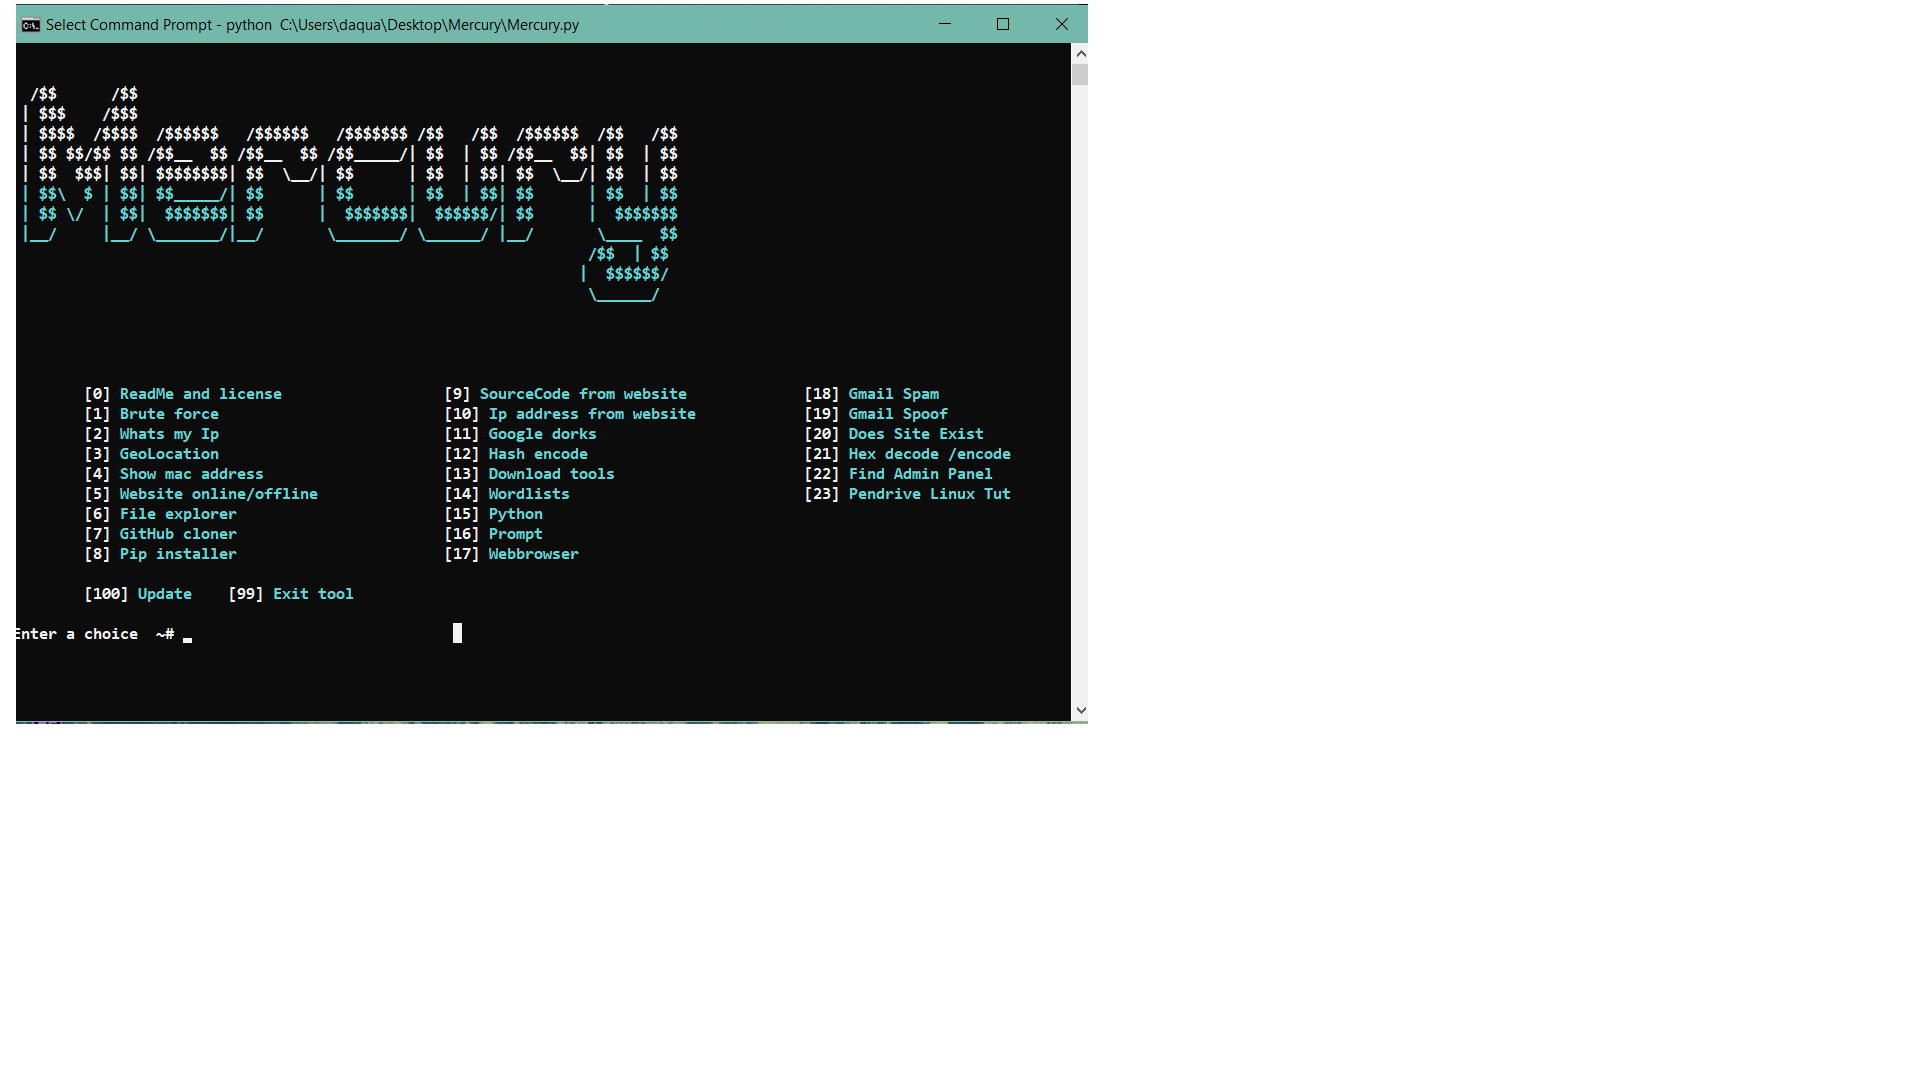
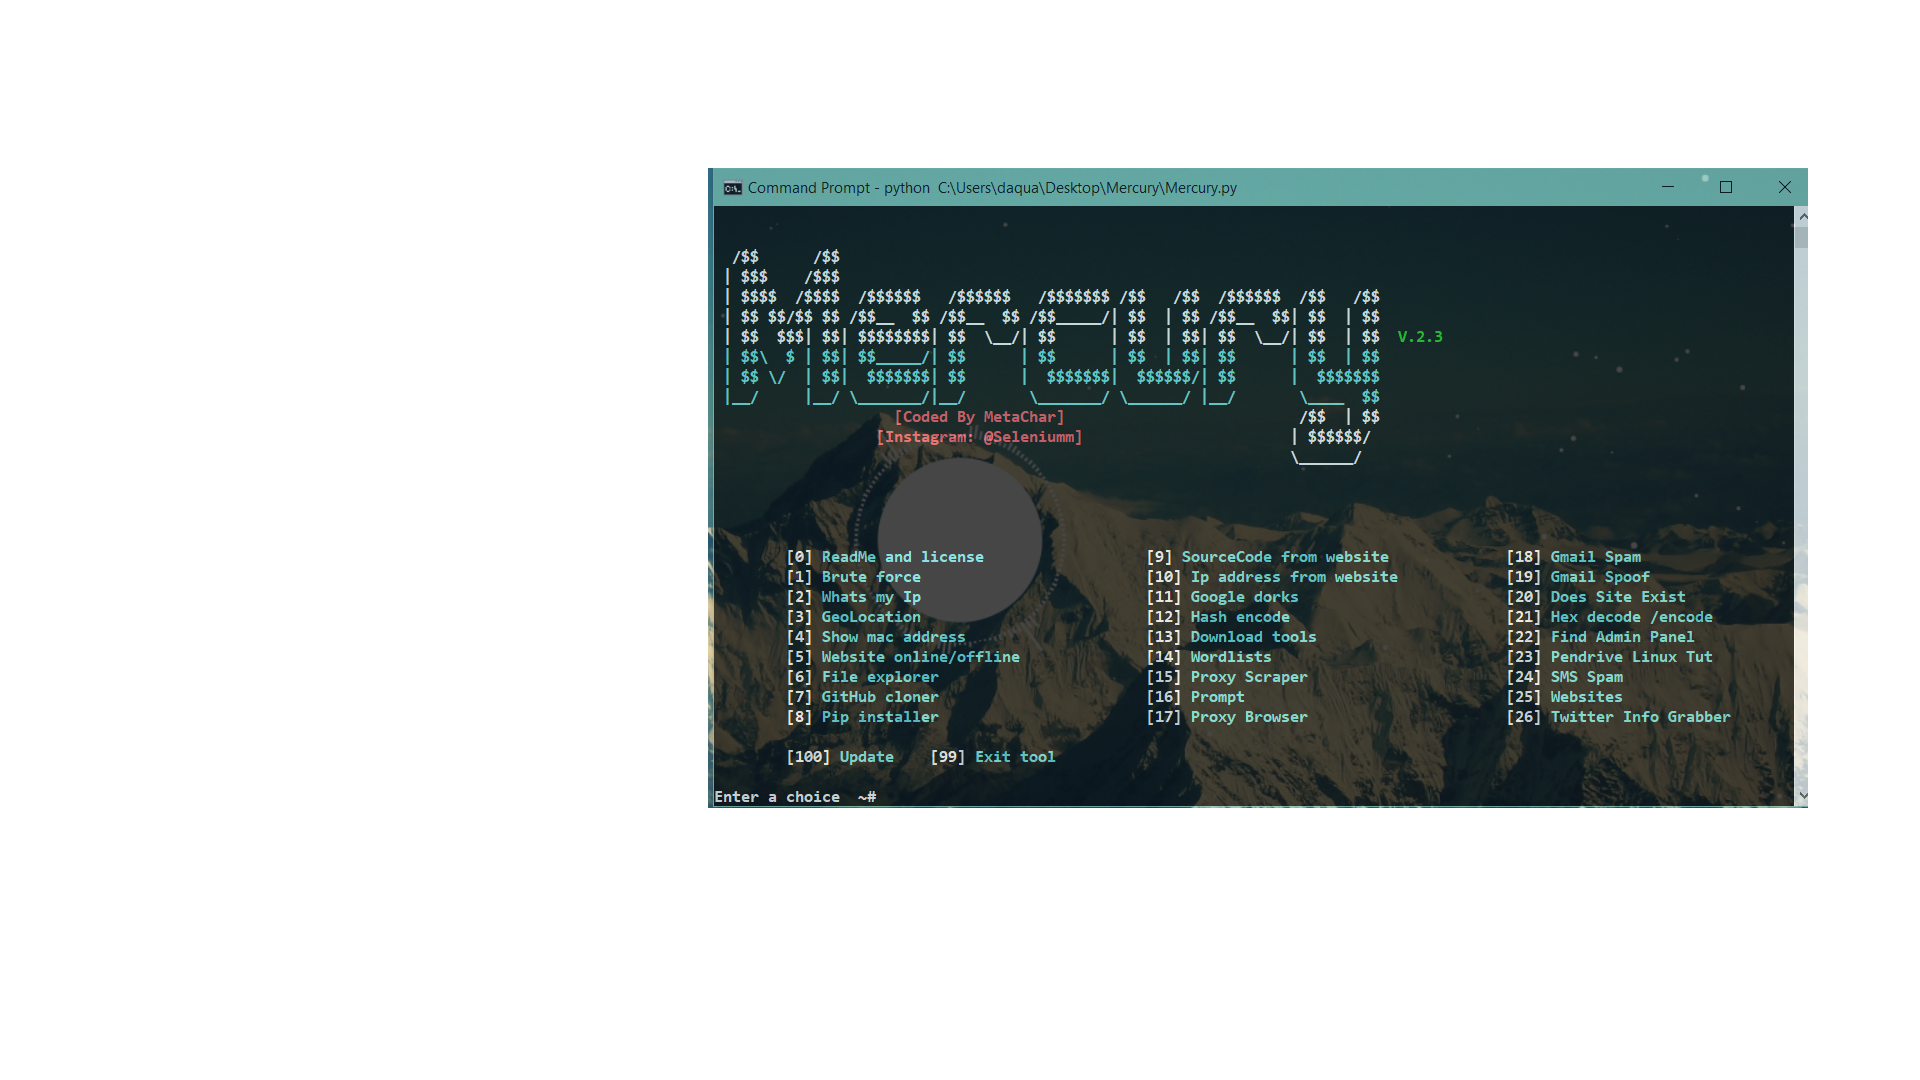
Add files via upload

diff --git a/Mercury.py b/Mercury.py
@@ -308,8 +308,8 @@ def websitess():
 	[3]\033[96m Dark More Ops \033[1;37;40m	[12]\033[96m Stack Overflow \033[1;37;40m
 	[4]\033[96m Kali Linux \033[1;37;40m         [13]\033[96m Arduino\033[1;37;40m
 	[5]\033[96m Defcon \033[1;37;40m		[14]\033[96m RaspberryPie\033[1;37;40m
-	[6]\033[96m Pycon \033[1;37;40m
-	[7]\033[96m Python.org \033[1;37;40m
+	[6]\033[96m Pycon \033[1;37;40m              [15]\033[96m Kitploit\033[1;37;40m
+	[7]\033[96m Python.org \033[1;37;40m          [16]\033[96m Hack A Day\033[1;37;40m
 	[8]\033[96m HackThis! \033[1;37;40m
 
 
@@ -362,9 +362,17 @@ def websitess():
 	if ans_5 == '14':
 		browser.get('https://www.raspberrypi.org/')
 		websitess()
+	if ans_5 == '15':
+		browser.get('https://www.kitploit.com/')
+		websitess()
+	if ans_5 == '16':
+		browser.get('https://hackaday.com/')
+		websitess()
 	if ans_5 == '99':
 		attempt = 0 
 		mainmenu()
+	else:
+		websitess()
 
 
 
@@ -541,7 +549,6 @@ def toolss():
 		mainmenu()
 	else:
 		toolss()
-proxys_num2 = 2
 def proxys():
 	options = webdriver.ChromeOptions()
 	options.add_argument("--disable-popup-blocking")
@@ -1126,7 +1133,7 @@ def wordlist():
 			wordlist()
 		except KeyboardInterrupt:
 			wordlist()
-	if ans_3 == '3':
+	if ans_3 == '4':
 		try:
 			print ('Downloading B03z Sorted  9GB this may take awhile...')
 			requests.get('http://download.g0tmi1k.com/wordlists/large/b0n3z-wordlist-sorted_REPACK-69.3GB.7z')
@@ -1191,12 +1198,12 @@ def mainmenu():
  | $$$    /$$$                                                            
  | $$$$  /$$$$  /$$$$$$   /$$$$$$   /$$$$$$$ /$$   /$$  /$$$$$$  /$$   /$$
  | $$ $$/$$ $$ /$$__  $$ /$$__  $$ /$$_____/| $$  | $$ /$$__  $$| $$  | $$
- | $$  $$$| $$| $$$$$$$$| $$  \__/| $$      | $$  | $$| $$  \__/| $$  | $$
+ | $$  $$$| $$| $$$$$$$$| $$  \__/| $$      | $$  | $$| $$  \__/| $$  | $$ \033[92m V.2.3
 \033[96m | $$\  $ | $$| $$_____/| $$      | $$      | $$  | $$| $$      | $$  | $$
  | $$ \/  | $$|  $$$$$$$| $$      |  $$$$$$$|  $$$$$$/| $$      |  $$$$$$$
  |__/     |__/ \_______/|__/       \_______/ \______/ |__/       \____  $$
-                                                                /$$  | $$
-                                                               |  $$$$$$/
+                    \033[91m[Coded By MetaChar] \033[1;37;40m                         /$$  | $$
+                  \033[91m[Instagram: @Seleniumm]\033[1;37;40m                       | $$$$$$/
                                                                 \______/ 
  ''')
 	space()
